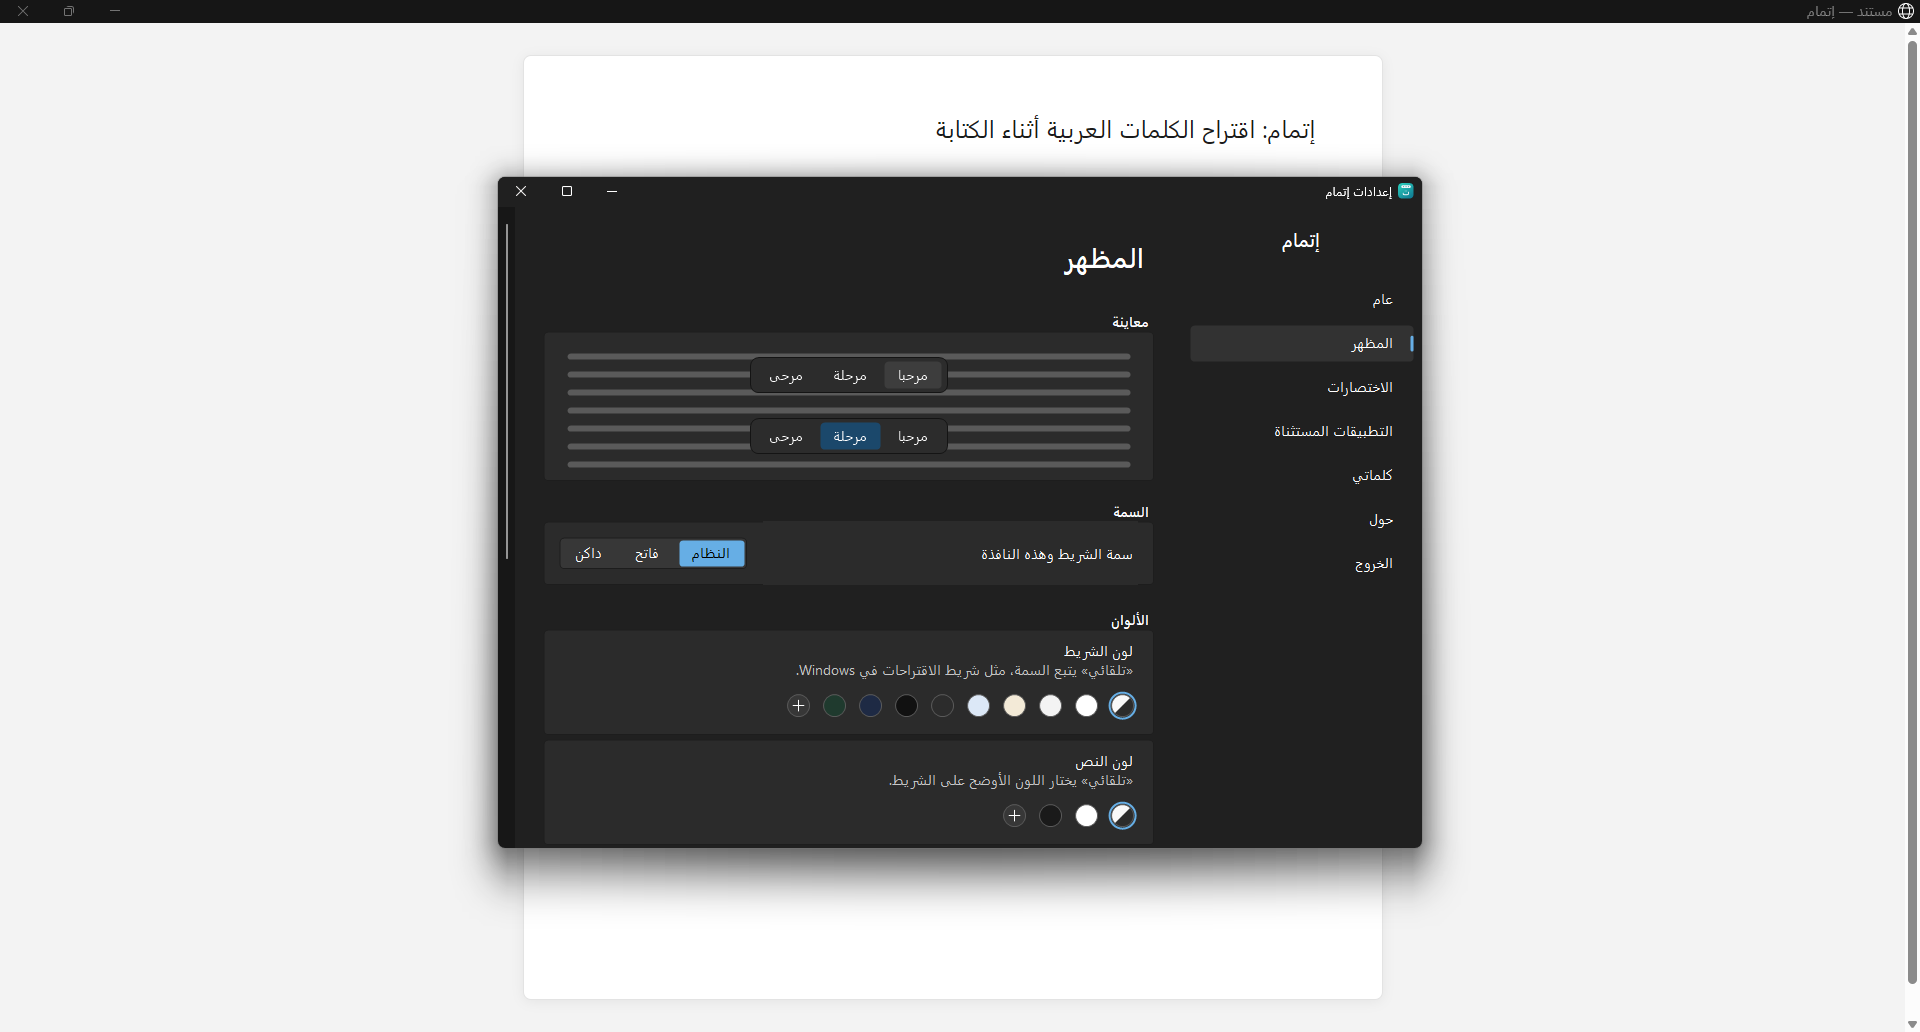
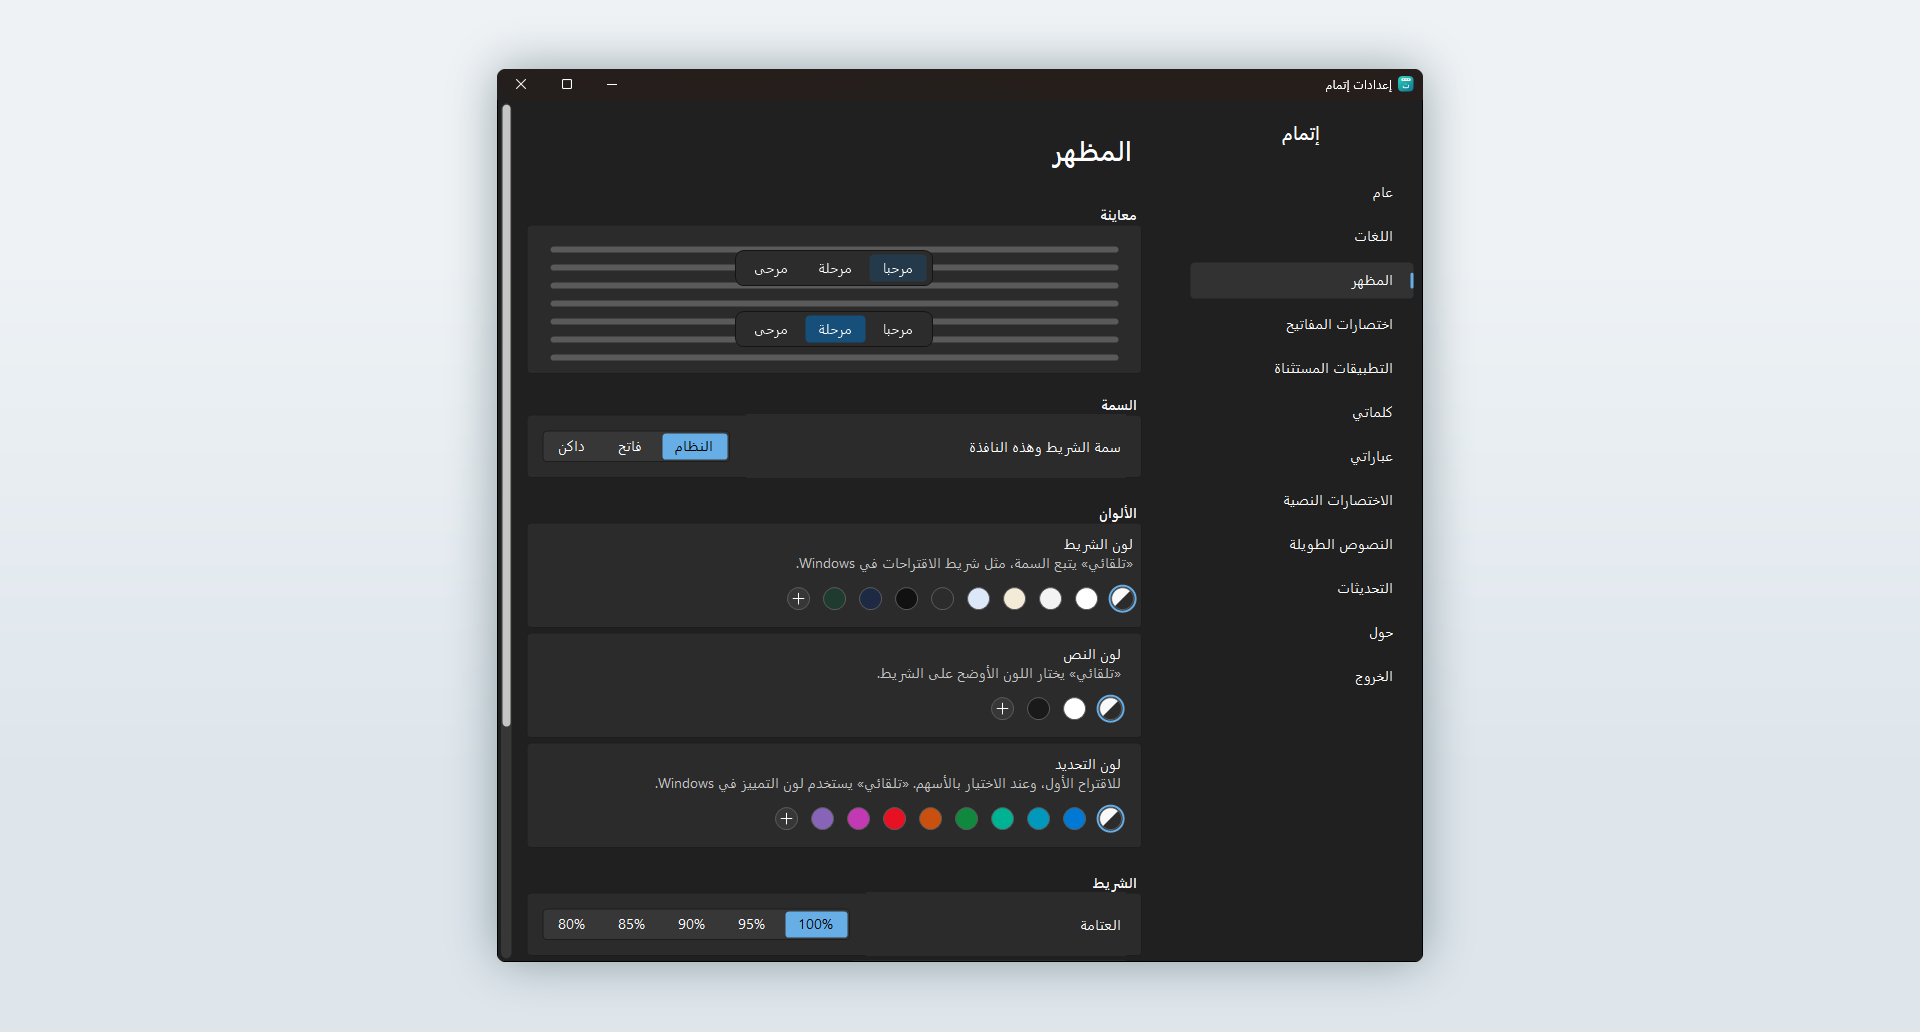
docs: site and READMEs cover 2.2, new appearance image
Three feature cards (long texts your way, interface language, rate from inside),
the rate button in the privacy lines and READMEs, and the site's appearance image
from the current settings window.

Changed region(s): [[0.0, 0.0, 1.0, 1.0], [0.7188, 0.2481, 0.75, 0.2791], [0.6562, 0.2171, 0.6875, 0.2481]]

diff --git a/site/index.html b/site/index.html
@@ -76,6 +76,9 @@
         <div class="feature"><span class="num">١٦</span><h3>بعدة لغات</h3><p>يتبع لوحة المفاتيح: قاموس إنجليزي كامل بجانب العربي، وأي لغة أبجدية أخرى تفعّلها يتعلّم كلماتها من كتابتك.</p></div>
         <div class="feature"><span class="num">١٧</span><h3>كلماتك من أي نص</h3><p>استورد ملفًا نصيًا، مثل مقالة أو رسائل قديمة، فيأخذ إتمام كلماته ويقترحها فورًا. لا يُحفظ النص نفسه.</p></div>
         <div class="feature"><span class="num">١٨</span><h3>خفيف على جهازك</h3><p>لا يحمّل في الذاكرة إلا قواميس اللغات التي تفعّلها، ويحرّر ما تعطّله فورًا.</p></div>
+        <div class="feature"><span class="num">١٩</span><h3>نصوصك كما تريدها</h3><p>رتّب النصوص الطويلة بسحبها مثل إعدادات Windows، وكبّر نافذتها كما تشاء، فتفتح بالحجم الذي تركتها عليه.</p></div>
+        <div class="feature"><span class="num">٢٠</span><h3>واجهة بلغتك</h3><p>تبدأ بالعربية إن كان Windows بالعربية، وإلا فبالإنجليزية، وتبدّلها بنقرة من قائمة الأيقونة.</p></div>
+        <div class="feature"><span class="num">٢١</span><h3>قيّمه من داخله</h3><p>زر «تقييم ومراجعة» في «التحديثات» و«حول» يفتح نافذة المتجر عند ضغطك عليه.</p></div>
       </div>
     </div>
   </section>
@@ -168,7 +171,7 @@
       <div>
         <h2>خصوصيتك قبل كل شيء</h2>
         <ul class="checks">
-          <li>لا يرسل إتمام أي بيانات: لا إحصاءات ولا تقارير أعطال. الاتصال التلقائي الوحيد سؤال متجر Microsoft عن التحديثات، ويمكن إيقافه.</li>
+          <li>لا يرسل إتمام أي بيانات: لا إحصاءات ولا تقارير أعطال. الاتصال التلقائي الوحيد سؤال متجر Microsoft عن التحديثات، ويمكن إيقافه. وزر «تقييم ومراجعة» يفتح نافذة المتجر عند ضغطك عليه فقط.</li>
           <li>لا يحفظ نصوصك: يحفظ الكلمات والعبارات القصيرة التي تكررها مع عدد مرات استعمالها فقط، على جهازك.</li>
           <li>لا يقرأ شيئًا من حقول كلمات المرور ولا من التطبيقات المستثناة.</li>
           <li>الشيفرة المصدرية مفتوحة: يمكن لأي أحد أن يتحقق بنفسه.</li>

diff --git a/site/en/index.html b/site/en/index.html
@@ -76,6 +76,9 @@
         <div class="feature"><span class="num">16</span><h3>Several languages</h3><p>It follows your keyboard: a full English dictionary next to the Arabic one, and any other alphabetic language you turn on learns its words from your typing.</p></div>
         <div class="feature"><span class="num">17</span><h3>Your words from any text</h3><p>Import a text file, such as an article or old messages: Itmam takes its words and suggests them at once. The text itself is not kept.</p></div>
         <div class="feature"><span class="num">18</span><h3>Light on your PC</h3><p>Only the dictionaries of the languages you turn on are in memory, and one you turn off is freed at once.</p></div>
+        <div class="feature"><span class="num">19</span><h3>Your texts, your way</h3><p>Reorder long texts by dragging them, as in Windows Settings, and resize their window: it opens at the size you left it.</p></div>
+        <div class="feature"><span class="num">20</span><h3>An interface in your language</h3><p>It starts in Arabic if Windows is in Arabic and in English otherwise, and one click in the tray menu switches it.</p></div>
+        <div class="feature"><span class="num">21</span><h3>Rate it from inside</h3><p>"Rate and review", on the Updates and About pages, opens the Store's window when you press it.</p></div>
       </div>
     </div>
   </section>
@@ -168,7 +171,7 @@
       <div>
         <h2>Your privacy comes first</h2>
         <ul class="checks">
-          <li>Itmam sends no data: no statistics, no crash reports. Its only automatic connection is asking Microsoft Store about updates, and it can be turned off.</li>
+          <li>Itmam sends no data: no statistics, no crash reports. Its only automatic connection is asking Microsoft Store about updates, and it can be turned off. "Rate and review" opens the Store's window only when you press it.</li>
           <li>Your text is not saved: only the words and short phrases you repeat, with how many times you used them, on your PC.</li>
           <li>Reads nothing from password fields or excluded apps.</li>
           <li>The source code is open: anyone can check for themselves.</li>

diff --git a/README.md b/README.md
@@ -47,7 +47,7 @@
 انقر أيقونة إتمام قرب الساعة (بالزر الأيمن أو الأيسر) ثم اختر «الإعدادات»:
 
 - **عام:** التشغيل مع Windows، وعدد الاقتراحات، وعدد الحروف قبل ظهورها.
-- **اللغات:** لغة الواجهة، ولغات لوحة المفاتيح في جهازك وما يفعله إتمام مع كل منها، وتشغيلها وإيقافها (اللغة الموقوفة يُحرَّر قاموسها من الذاكرة فورًا)، وقاموس كل من العربية والإنجليزية (الأساسي أو ويكيبيديا).
+- **اللغات:** لغة الواجهة (تبدأ بالعربية إن كانت لغة عرض Windows عربية، وإلا فبالإنجليزية، وتتبدّل أيضًا من قائمة الأيقونة)، ولغات لوحة المفاتيح في جهازك وما يفعله إتمام مع كل منها، وتشغيلها وإيقافها (اللغة الموقوفة يُحرَّر قاموسها من الذاكرة فورًا)، وقاموس كل من العربية والإنجليزية (الأساسي أو ويكيبيديا).
 - **المظهر:** السمة، وألوان الشريط والنص والتحديد، والعتامة، وحجم النص، مع معاينة حية.
 - **الاختصارات:** تسجيل اختصار جديد بضغطه، مع منع ما يتعارض مع الكتابة أو مع اختصارات Windows.
 - **التطبيقات المستثناة:** البرامج التي يبقى فيها إتمام صامتًا تمامًا.
@@ -56,7 +56,7 @@
 - **الاختصارات النصية:** إضافة اختصار («ع1») وعبارته، وتعديله، وحذفه، والاستيراد والتصدير.
 - **النصوص الطويلة:** إضافة نص باسمه ومحتواه (حتى 4000 حرف بعدة أسطر)، و«إدراج متغير…»، وتعديله، وحذفه، وترتيبها بالسحب، والاستيراد والتصدير. ويمكن الإضافة أيضًا من قائمة الاختصار نفسها.
 - **مكان العبارات في الشريط** (صفحة «عباراتي»): في بدايته أو في نهايته بعد الكلمات.
-- **التحديثات:** الإصدار، والبحث عن تحديث عبر متجر Microsoft.
+- **التحديثات:** الإصدار، والبحث عن تحديث عبر متجر Microsoft، وزر «تقييم ومراجعة» (وهو في صفحة «حول» أيضًا).
 
 ## الأيقونة قرب الساعة
 
@@ -73,7 +73,7 @@
 
 ## الخصوصية
 
-- لا يرسل إتمام أي بيانات: لا إحصاءات ولا تقارير أعطال. الاتصال التلقائي الوحيد سؤال متجر Microsoft عن التحديثات، ويمكن إيقافه من الإعدادات ← «التحديثات».
+- لا يرسل إتمام أي بيانات: لا إحصاءات ولا تقارير أعطال. الاتصال التلقائي الوحيد سؤال متجر Microsoft عن التحديثات، ويمكن إيقافه من الإعدادات ← «التحديثات». وزر «تقييم ومراجعة» يفتح نافذة المتجر عند ضغطك عليه فقط.
 - يُحفظ لكل كلمة: الكلمة وعدد مرات استعمالها ووقت آخر استعمال فقط، في ملف على جهازك. لا جمل.
 - ولتعلّم العبارات تُحفظ تسلسلات قصيرة (من كلمتين إلى 5) مع عددها؛ وما لم يتكرر مرتين يُحذف بعد 30 يومًا. ويمكن إيقاف ذلك من الإعدادات.
 - لا يُقرأ ولا يُتعلَّم شيء في حقول كلمات المرور والتطبيقات المستثناة.

diff --git a/README.en.md b/README.en.md
@@ -49,7 +49,7 @@ Shortcuts can be changed in Settings → "Keyboard shortcuts".
 Click the Itmam icon next to the clock (right or left button) and choose "Settings":
 
 - **General:** start with Windows, number of suggestions, letters before they appear.
-- **Languages:** the interface language, the keyboard languages on your PC and what Itmam does with each, turning them on or off (a
+- **Languages:** the interface language (it starts in Arabic if Windows is displayed in Arabic and in English otherwise, and the tray menu switches it too), the keyboard languages on your PC and what Itmam does with each, turning them on or off (a
   language turned off frees its dictionary from memory at once), and the Arabic and English dictionaries (basic or Wikipedia).
 - **Appearance:** theme, bar, text and selection colors, opacity, text size, with a live preview.
 - **Shortcuts:** record a new shortcut by pressing it; shortcuts that would break typing or Windows shortcuts are refused.
@@ -59,7 +59,7 @@ Click the Itmam icon next to the clock (right or left button) and choose "Settin
 - **Text shortcuts:** add a shortcut («ع1») and its text, edit, delete, import and export.
 - **Long texts:** add a text with its name and content (up to 4,000 characters, several lines), "Insert variable…", edit, delete, reorder by dragging, import and export. Texts can also be added from the shortcut's list itself.
 - **Phrases in the bar** (My phrases page): at its start or at its end, after the words.
-- **Updates:** the version, and checking for an update through Microsoft Store.
+- **Updates:** the version, checking for an update through Microsoft Store, and "Rate and review" (also on the About page).
 
 ## The icon next to the clock
 
@@ -76,7 +76,7 @@ Itmam has no main window and no taskbar button; it runs from an icon next to the
 
 ## Privacy
 
-- Itmam sends no data: no statistics, no crash reports. Its only automatic connection is asking Microsoft Store about updates, and it can be turned off in Settings → "Updates".
+- Itmam sends no data: no statistics, no crash reports. Its only automatic connection is asking Microsoft Store about updates, and it can be turned off in Settings → "Updates". "Rate and review" opens the Store's window only when you press it.
 - For each word only the word, how many times it was used and when are kept, in a file on your device. No sentences.
 - To learn phrases, short sequences (2 to 5 words) are kept with their counts; one not typed twice is deleted after 30 days. This can be turned off in Settings.
 - Nothing is read or learned in password fields or excluded apps.

diff --git a/CLAUDE.md b/CLAUDE.md
@@ -103,7 +103,7 @@ Arabic as-you-type word prediction for the physical keyboard on Windows, shipped
   follows the Windows display language (`AppSettings.FirstRunLanguage`: Arabic if «ar», else English; `SettingsStore.Load(firstRunLanguage)` uses it only
   when there is no settings file or it is damaged, so existing users keep theirs); tray item `MenuSwitchLanguage`, written in the language it switches
   to («Switch to English» / «تبديل إلى اللغة العربية»), applied at once. Guide text updated; PDFs to rebuild with the release.
-- **2.2 (version 2.2.0.0; branches `live-drag`, `ui-language`, `store-review` merged into main 2026-11-05; `release-2.2` merged into main; **Submission 9 (package 2.2.0.0 + What's new + Description privacy paragraph + screenshots 2-6, ar and en, + certification notes) SENT FOR CERTIFICATION 2026-11-05**; two builds carried the number 2.2.0.0 and the Store refused the second until the first was removed: never rebuild a number already uploaded):** one in-app button «تقييم ومراجعة» on the Updates
+- **2.2 (version 2.2.0.0; branches `live-drag`, `ui-language`, `store-review` merged into main 2026-11-05; `release-2.2` merged into main; **Submission 9 (package 2.2.0.0 + What's new + Description privacy paragraph + screenshots 2-6, ar and en, + certification notes) SENT FOR CERTIFICATION 2026-11-05**; site feature cards 19-21, READMEs and the site's appearance image updated afterwards; two builds carried the number 2.2.0.0 and the Store refused the second until the first was removed: never rebuild a number already uploaded):** one in-app button «تقييم ومراجعة» on the Updates
   and About pages (`SettingsWindow.AddRateCard` → `StoreUpdates.RequestRateAndReviewAsync`; unpackaged or the window fails → `StoreUpdates.ReviewPage` in the Store app, so it can be tried from Debug; message `RateUnavailable` only if that fails too; the real window can be checked only in a Store install). Privacy wording changed
   everywhere; the published Store description must be updated in Partner Center with the next submission. Screenshots of About/Updates and guide PDFs: with the release.
 - **Phase 7** merged into main. `src/Itmam.Package` (.wapproj, x64 + ARM64 bundle),
